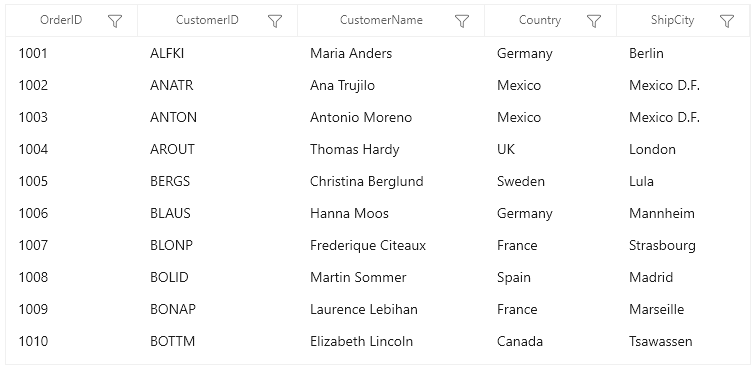
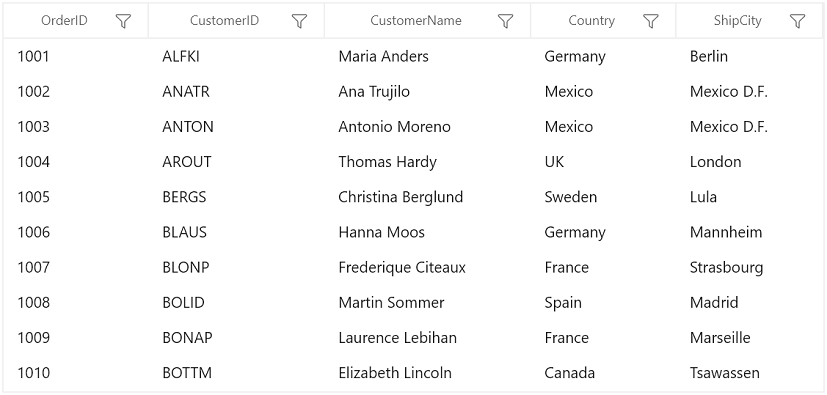
WINUI-2387 - WinUI Getting Started image changes committed.

diff --git a/winui/DataGrid/Getting-Started.md b/winui/DataGrid/Getting-Started.md
@@ -416,7 +416,7 @@ By default, you can sort columns in a SfDataGrid by clicking the column header. 
 {% endhighlight %}
 {% endtabs %}
 
-<img src="Getting-Started-images/winui-datagrid-sorting.png" alt="WinUI DataGrid Sorting" width="Auto"/>
+<img src="Getting-Started-images/winui-datagrid-sorting.png" alt="WinUI DataGrid Sorting" width="100%"/>
 
 You can customize sorting by handling the [SfDataGrid.SortColumnsChanging](https://help.syncfusion.com/cr/winui/Syncfusion.UI.Xaml.DataGrid.SfDataGrid.html#Syncfusion_UI_Xaml_DataGrid_SfDataGrid_SortColumnsChanging) and [SfDataGrid.SortColumnsChanged](https://help.syncfusion.com/cr/winui/Syncfusion.UI.Xaml.DataGrid.SfDataGrid.html#Syncfusion_UI_Xaml_DataGrid_SfDataGrid_SortColumnsChanged) events. To cancel the default sort, set the `Cancel` property to `true` in `SfDataGrid.SortColumnsChanging` event. 
 
